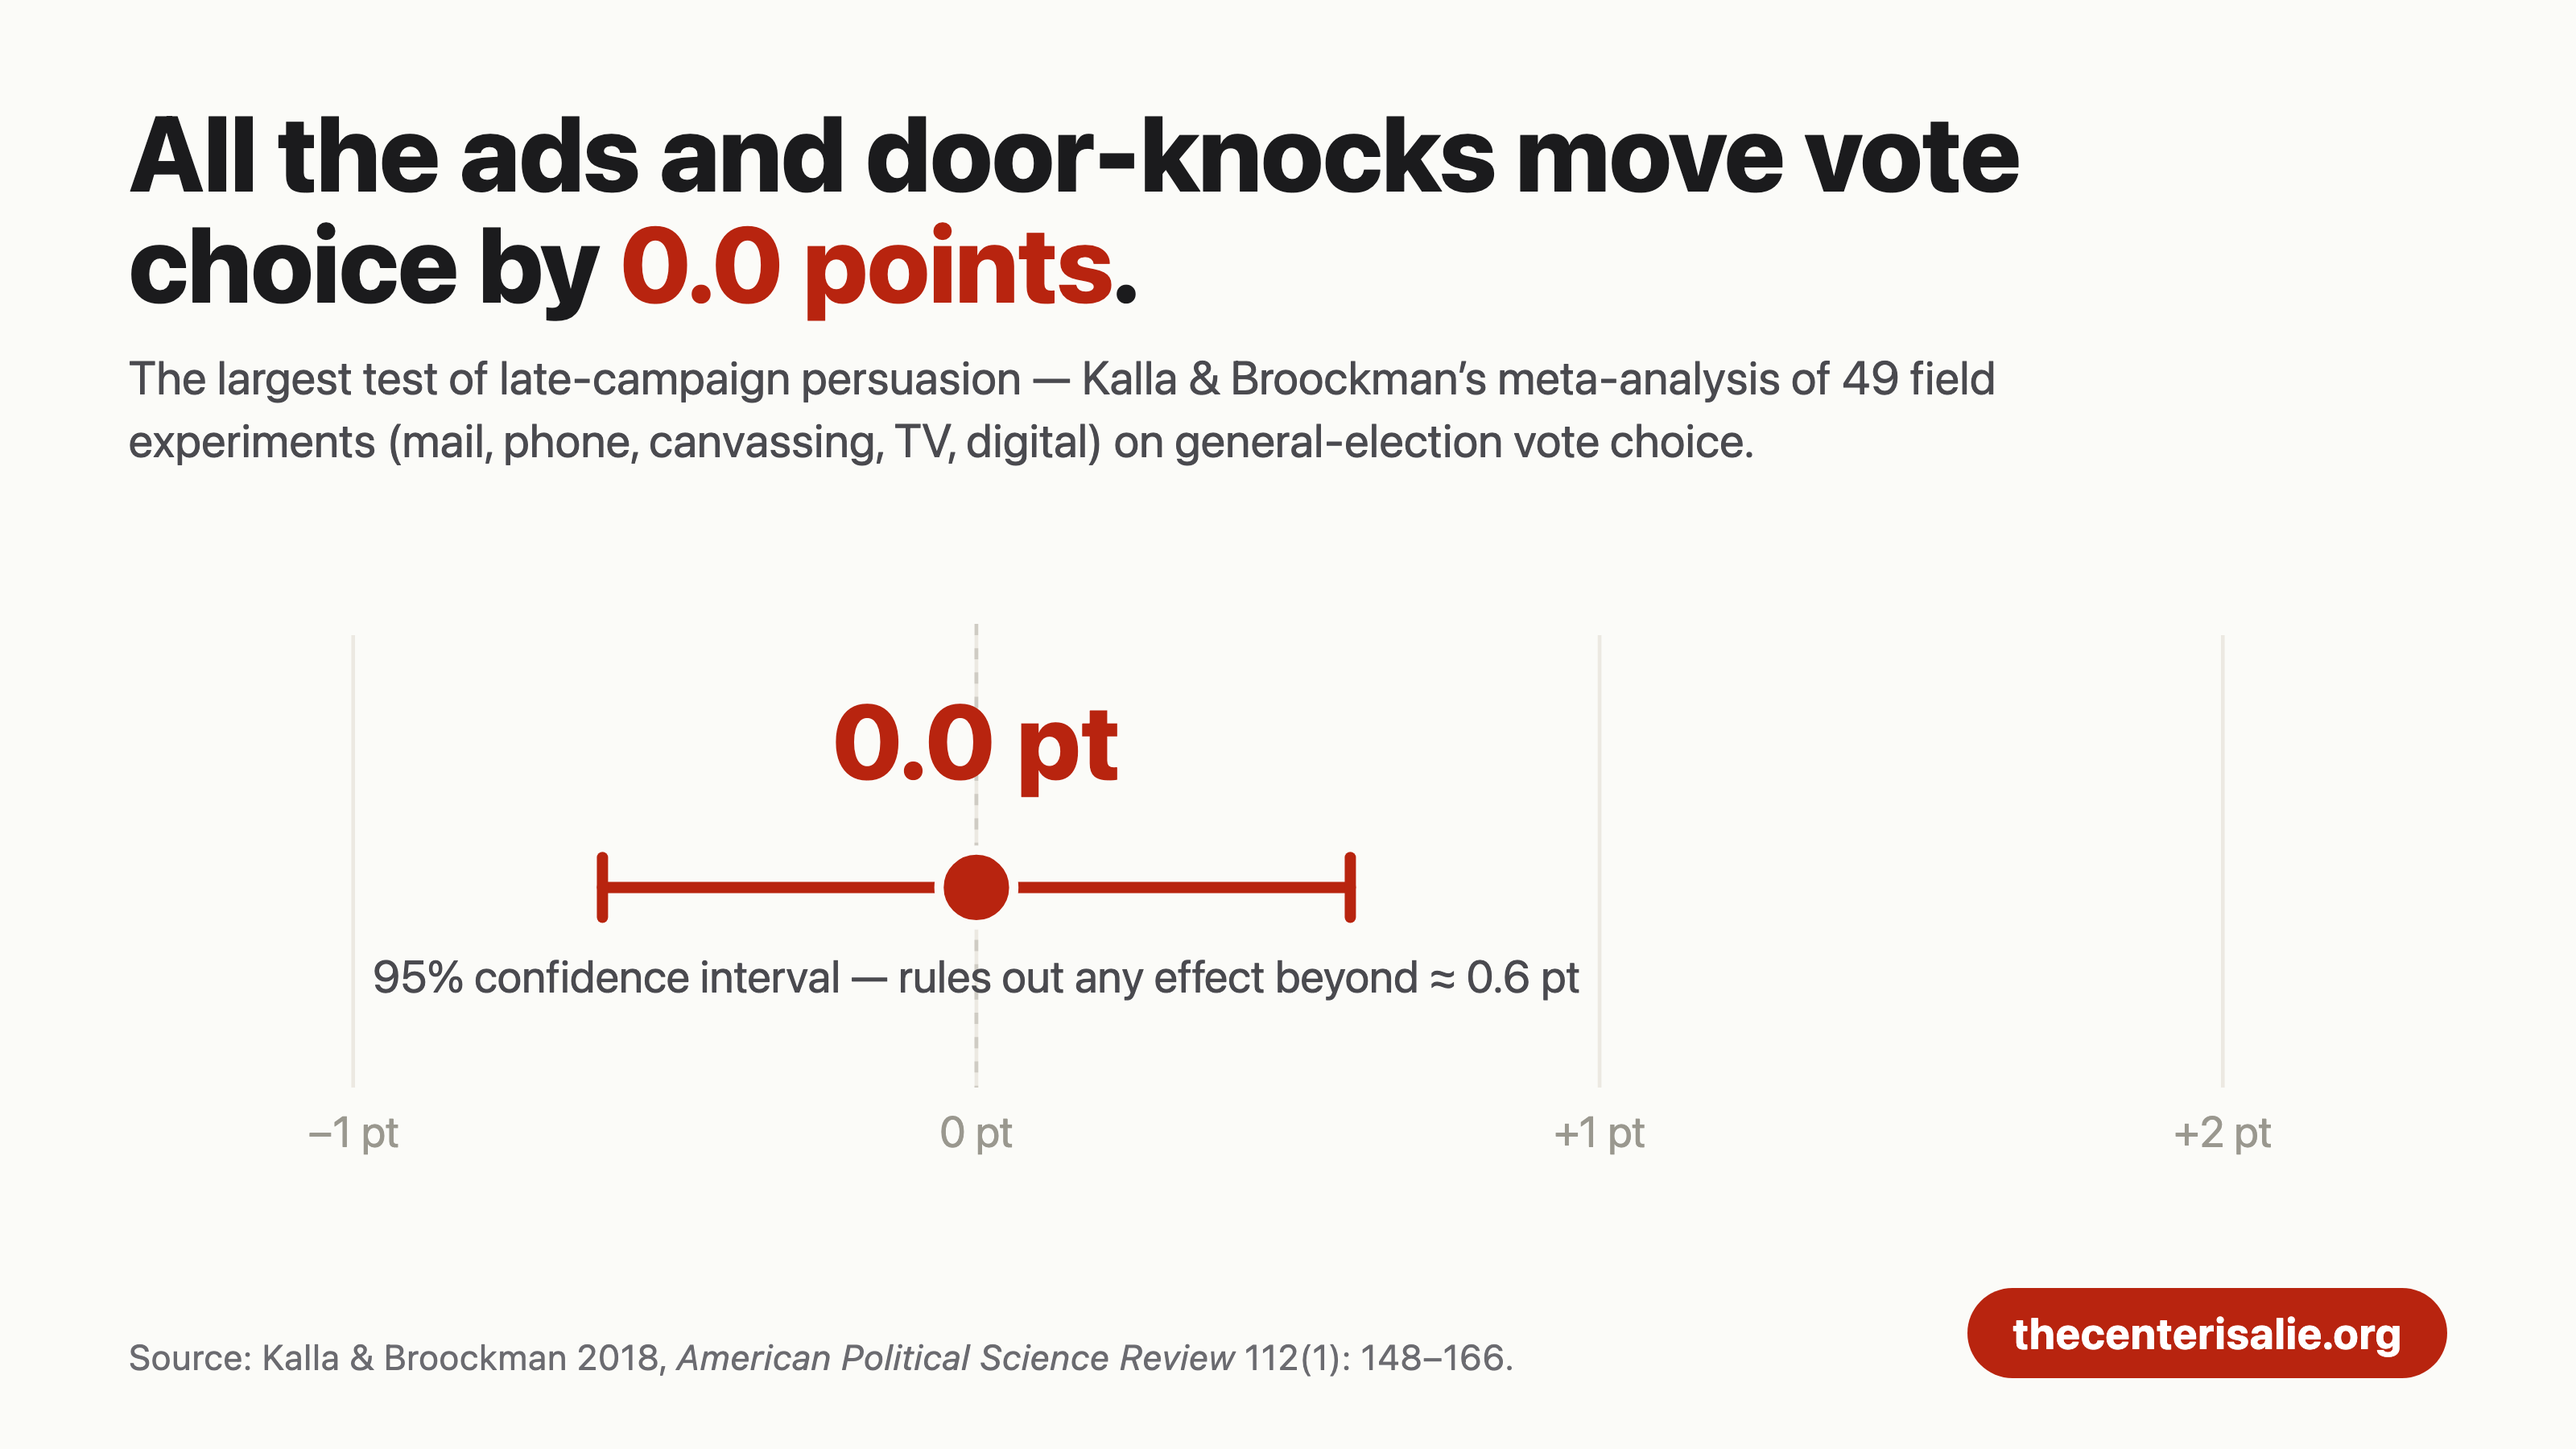
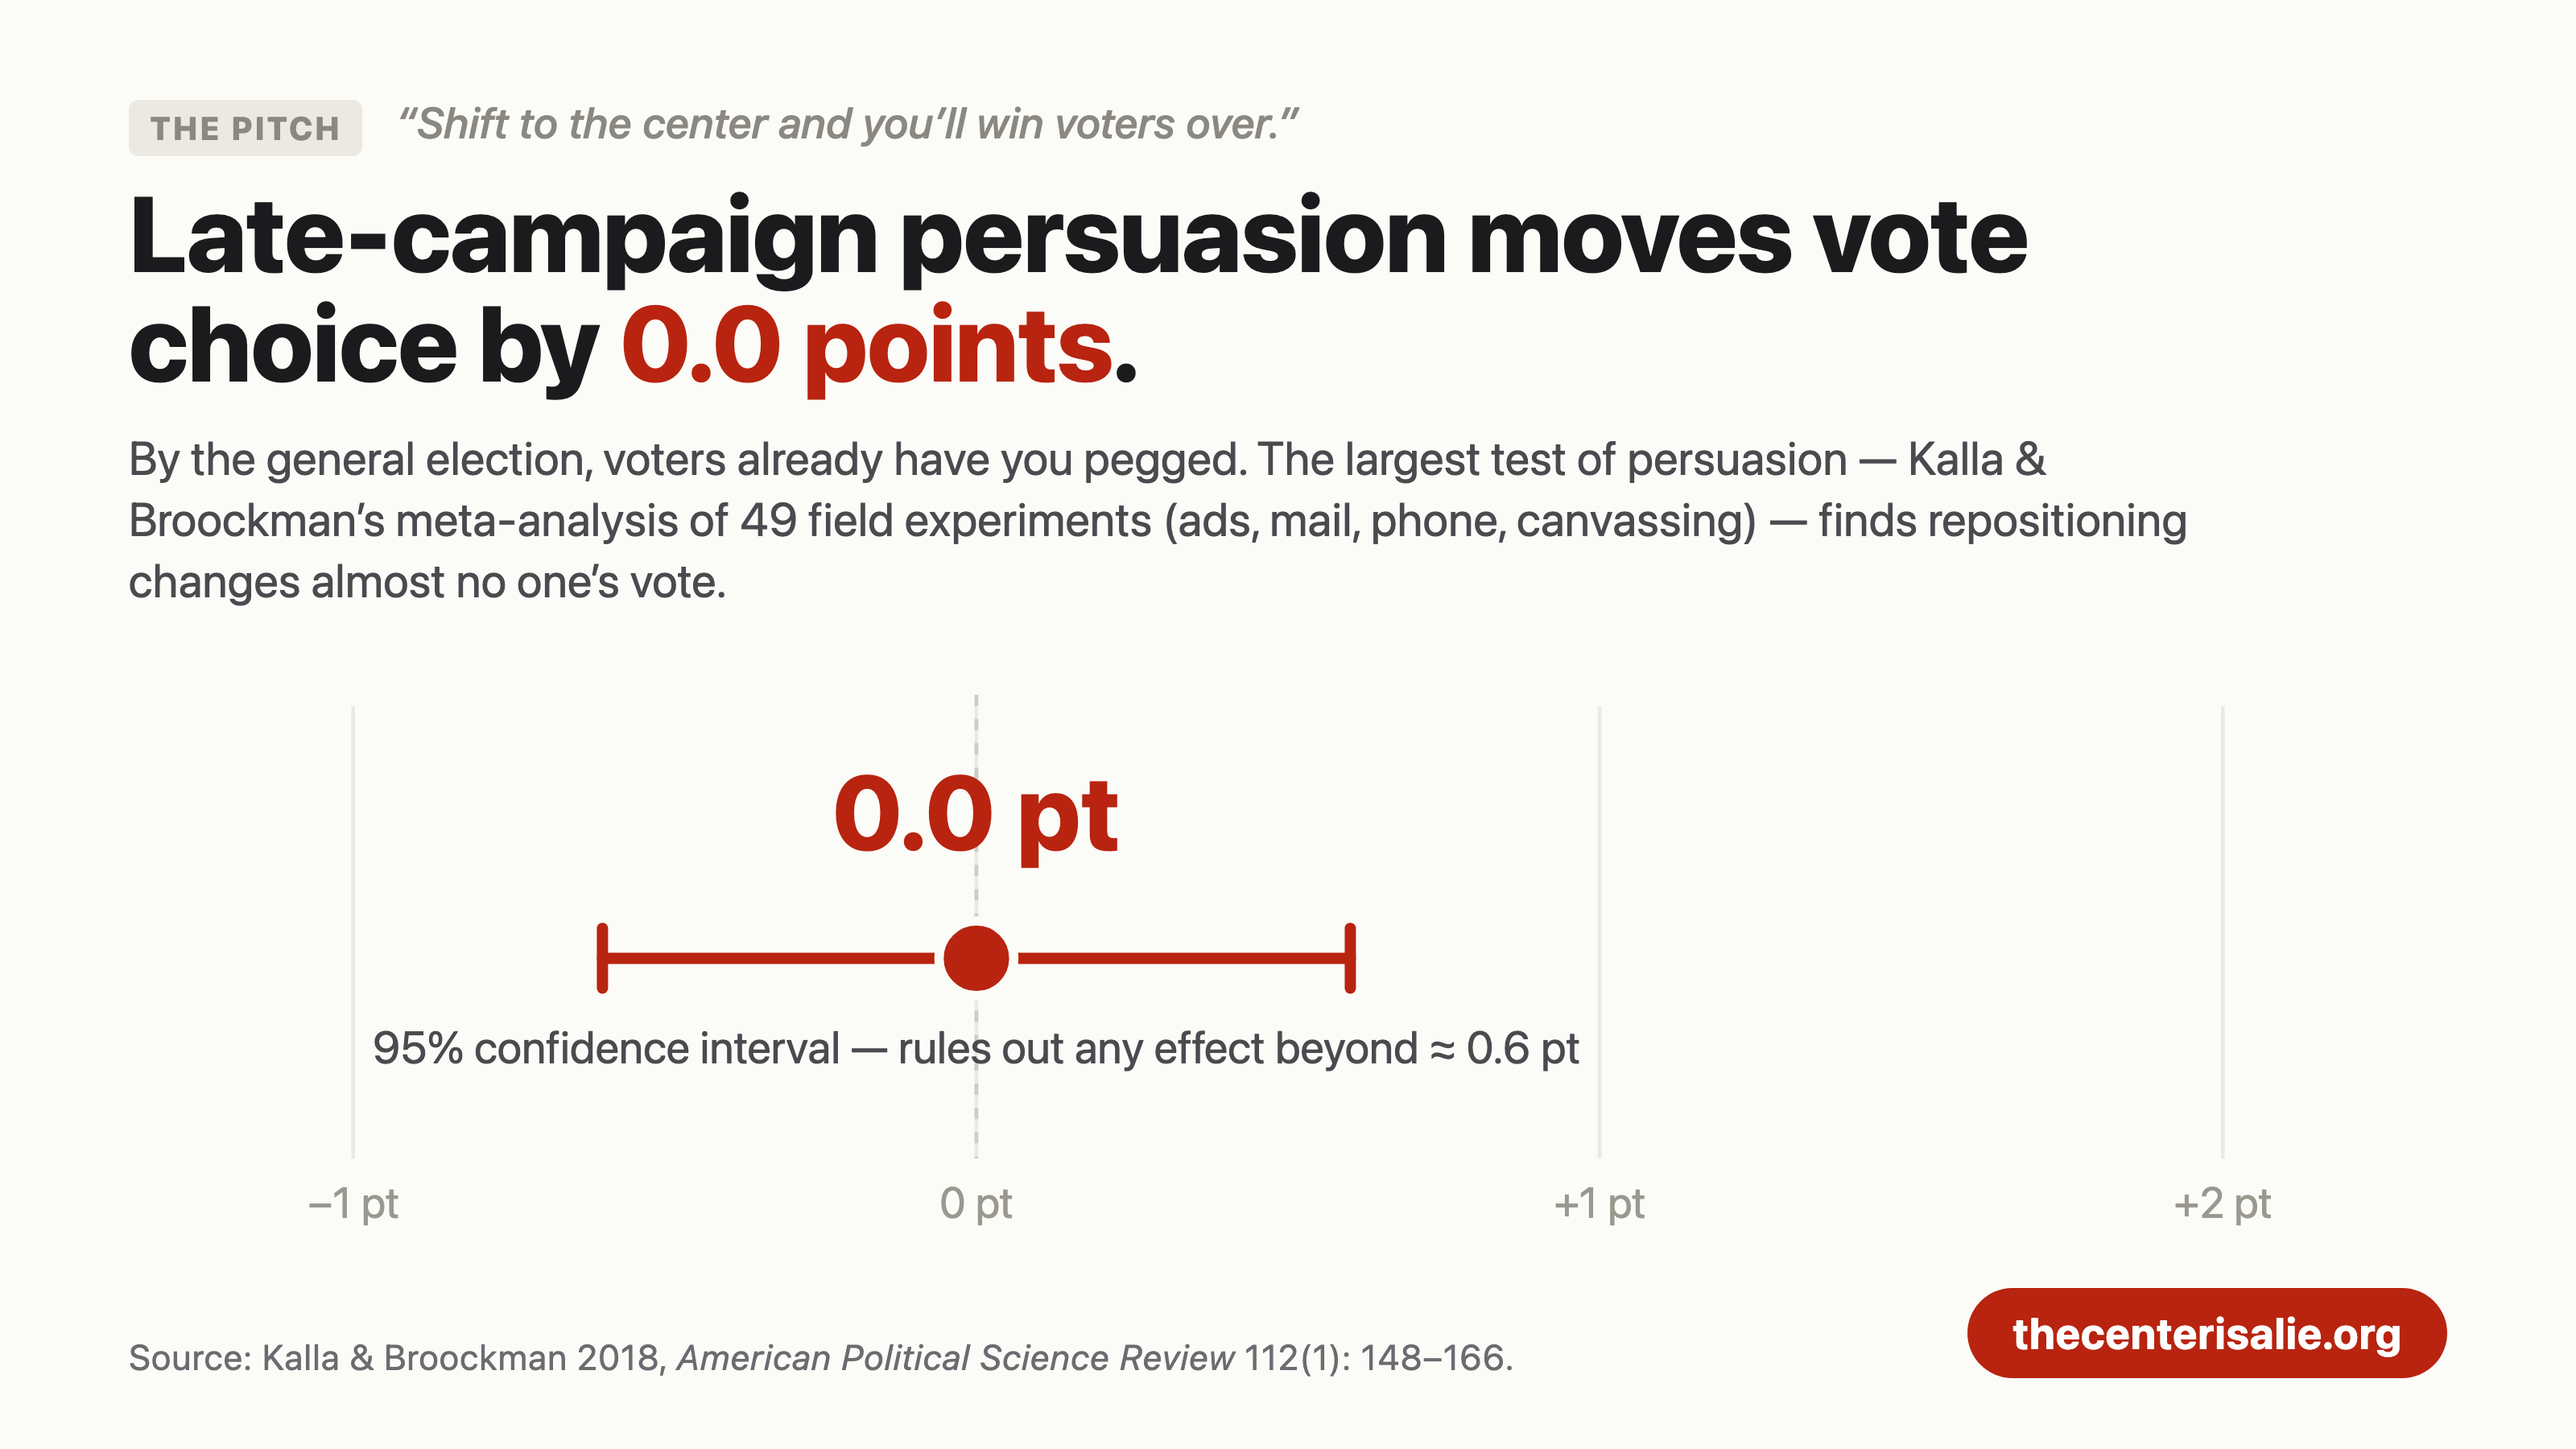
feat(og): add "the pitch -> reality" myth kicker; rework illusion around the 22/78 gap
- new .cc-claim kicker names the claim each card kills (blunt assumption/reality)
- illusion: reworked from overlaid distributions (lumpy middle) to a single
  individual-position histogram — grey 22% center vs red 78% off-center; the
  averaging trick reads directly. Numbers from build_center_illusion.py
- turnout: kicker "Moderate your positions and you will expand the electorate"
- persuasion: kicker "Shift to the center and you will win voters over" + mechanism
  (voters already have you pegged)

diff --git a/web/og-cards/chart-illusion.html b/web/og-cards/chart-illusion.html
@@ -2,21 +2,17 @@
 <html lang="en"><head><meta charset="utf-8"><link rel="stylesheet" href="./chart-card.css"></head>
 <body>
   <div class="chartcard">
+    <div class="cc-claim"><span class="tag">The pitch</span> &ldquo;There&rsquo;s a big moderate middle &mdash; govern to the center.&rdquo;</div>
     <div class="cc-title">The &ldquo;moderate middle&rdquo; is an <span class="hl">averaging trick</span>.</div>
-    <div class="cc-sub">Same voters, same six issues. Average each person&rsquo;s positions and a tidy center appears
-      (blue). Plot their <em>actual</em> issue-by-issue positions (red) and the mass is at the poles &mdash;
-      <strong>26%</strong> sit at the extremes, vs. just <strong>0.4%</strong> &ldquo;on average.&rdquo;</div>
+    <div class="cc-sub">On any single issue, only <strong>22%</strong> of voters pick the center &mdash;
+      <strong>78%</strong> pick a side. Average opposing sides together and a &ldquo;moderate&rdquo; appears
+      who mostly doesn&rsquo;t exist.</div>
 
-    <div class="cc-chart"><svg id="ill" viewBox="0 0 1240 396" role="img"
-      aria-label="Averaged positions cluster at the center; actual issue positions pile up at the poles"></svg></div>
-
-    <div class="cc-legend">
-      <div class="item"><span class="dot" style="background:#7aa8d6"></span>By each voter&rsquo;s <b>average</b> position</div>
-      <div class="item"><span class="dot" style="background:#b8240f"></span>By their <b>actual</b> issue positions</div>
-    </div>
+    <div class="cc-chart"><svg id="ill" viewBox="0 0 1240 392" role="img"
+      aria-label="Distribution of individual issue positions: 22% at center, 78% off-center toward the poles"></svg></div>
 
     <div class="cc-foot">
-      <div class="cc-source">Source: ANES 2016, six 7-pt issue self-placements, weighted (V160101); n = 3,418 voters.</div>
+      <div class="cc-source">Source: ANES 2016, all individual responses across six 7-pt issue scales, weighted (V160101); n = 3,418 voters.</div>
       <div class="cc-btn">thecenterisalie.org</div>
     </div>
   </div>
@@ -25,23 +21,29 @@
     const NS = 'http://www.w3.org/2000/svg';
     const svg = document.getElementById('ill');
     const el = (t, a) => { const n = document.createElementNS(NS, t); for (const k in a) n.setAttribute(k, a[k]); return n; };
-    const cen = [-3,-2.5,-2,-1.5,-1,-0.5,0,0.5,1,1.5,2,2.5,3];
-    const A = [0.36,0.47,3.4,7.07,12.39,14.8,18.99,15.04,15.3,8.0,3.73,0.36,0.09];
-    const Bx = [-3,-2,-1,0,1,2,3], By = [13.53,10.46,13.07,22.23,15.11,13.15,12.45];
-    const X0 = 96, X1 = 1176, W = X1 - X0, axisY = 336, topY = 20, YMAX = 24;
-    const x = (v) => X0 + (v + 3) / 6 * W;
-    const y = (p) => axisY - p / YMAX * (axisY - topY);
+    // individual issue positions, -3 (extremely lib) .. +3 (extremely con)
+    const V = [13.5, 10.5, 13.1, 22.2, 15.1, 13.2, 12.5];
+    const X0 = 150, X1 = 1110, baseY = 300, topY = 74, YMAX = 24;
+    const band = (X1 - X0) / V.length, bw = 108;
+    const h = (v) => v / YMAX * (baseY - topY);
+    V.forEach((v, j) => {
+      const cx = X0 + band * (j + 0.5), bh = h(v), by = baseY - bh, center = j === 3;
+      svg.appendChild(el('rect', { x: cx - bw / 2, y: by, width: bw, height: bh, rx: 8, fill: center ? '#8b97a3' : '#b8240f' }));
+      const pv = el('text', { x: cx, y: by - 14, 'text-anchor': 'middle', fill: '#1b1b1d', 'font-size': 26, 'font-weight': 700 }); pv.textContent = v.toFixed(0) + '%'; svg.appendChild(pv);
+    });
     // baseline
-    svg.appendChild(el('line', { x1: X0, y1: axisY, x2: X1, y2: axisY, stroke: '#d9d6cd', 'stroke-width': 2 }));
-    // A: filled area (the illusion)
-    let dA = `M ${x(-3)} ${axisY}`; cen.forEach((c, i) => dA += ` L ${x(c)} ${y(A[i])}`); dA += ` L ${x(3)} ${axisY} Z`;
-    svg.appendChild(el('path', { d: dA, fill: '#7aa8d6', 'fill-opacity': 0.75 }));
-    // B: bold red line + dots (the reality)
-    let dB = ''; Bx.forEach((c, i) => dB += (i ? ' L' : 'M') + ` ${x(c)} ${y(By[i])}`);
-    svg.appendChild(el('path', { d: dB, fill: 'none', stroke: '#b8240f', 'stroke-width': 5, 'stroke-linejoin': 'round' }));
-    Bx.forEach((c, i) => svg.appendChild(el('circle', { cx: x(c), cy: y(By[i]), r: 8, fill: '#b8240f', stroke: '#fbfbf8', 'stroke-width': 3 })));
+    svg.appendChild(el('line', { x1: X0 - 10, y1: baseY, x2: X1 + 10, y2: baseY, stroke: '#c9c6bd', 'stroke-width': 2 }));
     // x-axis category labels
-    const lab = (v, txt, anchor) => { const t = el('text', { x: x(v), y: axisY + 34, 'text-anchor': anchor, fill: '#8a887f', 'font-size': 23 }); t.textContent = txt; svg.appendChild(t); };
-    lab(-3, 'Extremely liberal', 'start'); lab(0, 'Center', 'middle'); lab(3, 'Extremely conservative', 'end');
+    const lab = (j, txt, anchor) => { const t = el('text', { x: X0 + band * (j + 0.5), y: baseY + 34, 'text-anchor': anchor, fill: '#8a887f', 'font-size': 23 }); t.textContent = txt; svg.appendChild(t); };
+    lab(0, 'Extremely liberal', 'middle'); lab(3, 'Center', 'middle'); lab(6, 'Extremely conservative', 'middle');
+    // callouts: 78% (off-center) vs 22% (center)
+    const cCenter = X0 + band * 3.5;
+    const c22 = el('text', { x: cCenter, y: baseY + 66, 'text-anchor': 'middle', fill: '#6f7a86', 'font-size': 24, 'font-weight': 700 }); c22.textContent = 'only 22% pick the center'; svg.appendChild(c22);
+    // bracket over the six off-center bars (left + right groups), label ABOVE the line
+    const bktY = 52;
+    [[X0 + 6, X0 + band * 3 - 16], [X0 + band * 4 + 16, X1 - 6]].forEach(([a, b]) => {
+      svg.appendChild(el('path', { d: `M ${a} ${bktY + 12} L ${a} ${bktY} L ${b} ${bktY} L ${b} ${bktY + 12}`, fill: 'none', stroke: '#b8240f', 'stroke-width': 3 }));
+    });
+    const c78 = el('text', { x: cCenter, y: bktY - 12, 'text-anchor': 'middle', fill: '#b8240f', 'font-size': 27, 'font-weight': 800 }); c78.textContent = '78% pick a side'; svg.appendChild(c78);
   </script>
 </body></html>

diff --git a/web/og-cards/chart-persuasion.html b/web/og-cards/chart-persuasion.html
@@ -2,9 +2,11 @@
 <html lang="en"><head><meta charset="utf-8"><link rel="stylesheet" href="./chart-card.css"></head>
 <body>
   <div class="chartcard">
-    <div class="cc-title">All the ads and door-knocks move vote choice by <span class="hl">0.0 points</span>.</div>
-    <div class="cc-sub">The largest test of late-campaign persuasion — Kalla &amp; Broockman&rsquo;s meta-analysis of
-      49 field experiments (mail, phone, canvassing, TV, digital) on general-election vote choice.</div>
+    <div class="cc-claim"><span class="tag">The pitch</span> &ldquo;Shift to the center and you&rsquo;ll win voters over.&rdquo;</div>
+    <div class="cc-title">Late-campaign persuasion moves vote choice by <span class="hl">0.0 points</span>.</div>
+    <div class="cc-sub">By the general election, voters already have you pegged. The largest test of persuasion &mdash;
+      Kalla &amp; Broockman&rsquo;s meta-analysis of 49 field experiments (ads, mail, phone, canvassing)
+      &mdash; finds repositioning changes almost no one&rsquo;s vote.</div>
 
     <div class="cc-chart"><svg id="persuasion" viewBox="0 0 1240 340" role="img"
       aria-label="Effect on vote choice: point estimate 0.0 points, 95% confidence interval rules out effects beyond about 0.6 points"></svg></div>

diff --git a/web/og-cards/chart-turnout.html b/web/og-cards/chart-turnout.html
@@ -2,10 +2,11 @@
 <html lang="en"><head><meta charset="utf-8"><link rel="stylesheet" href="./chart-card.css"></head>
 <body>
   <div class="chartcard">
+    <div class="cc-claim"><span class="tag">The pitch</span> &ldquo;Moderate your positions and you&rsquo;ll expand the electorate.&rdquo;</div>
     <div class="cc-title">Ideology decides <span class="hl">who</span> you vote for &mdash; not <span class="hl">whether</span> you show up.</div>
-    <div class="cc-sub">Standardized weight of ideology in two 2016 models. It&rsquo;s the dominant force in vote choice
-      and essentially zero for turnout &mdash; so a &ldquo;move to the center&rdquo; can&rsquo;t mobilize
-      voters or expand the electorate.</div>
+    <div class="cc-sub">Standardized weight of ideology in two 2016 models: it&rsquo;s the dominant force in vote choice
+      and essentially zero for turnout. Moving to the center can shuffle a few choices, but it can&rsquo;t
+      bring new voters out.</div>
 
     <div class="cc-chart"><svg id="to" viewBox="0 0 1240 380" role="img"
       aria-label="Ideology's standardized effect: 2.30 on vote choice, 0.03 on turnout"></svg></div>

diff --git a/web/og-cards/chart-card.css b/web/og-cards/chart-card.css
@@ -13,6 +13,18 @@ html, body { width: 1600px; height: 900px; }
   position: relative; overflow: hidden;
 }
 
+/* Myth kicker — names the claim the card kills, so the rebuttal is explicit. */
+.cc-claim {
+  font-size: 27px; font-weight: 500; color: #8a8880; line-height: 1.25;
+  margin-bottom: 13px; font-style: italic;
+}
+.cc-claim .tag {
+  font-style: normal; display: inline-block; vertical-align: middle;
+  background: #ece9e2; color: #8a8880; font-weight: 800; font-size: 20px;
+  letter-spacing: 0.08em; text-transform: uppercase; padding: 5px 13px;
+  border-radius: 6px; margin-right: 14px;
+}
+
 /* Point-first title — states the argument, not the topic. */
 .cc-title {
   font-size: 66px; font-weight: 800; line-height: 1.04; letter-spacing: -0.5px;
